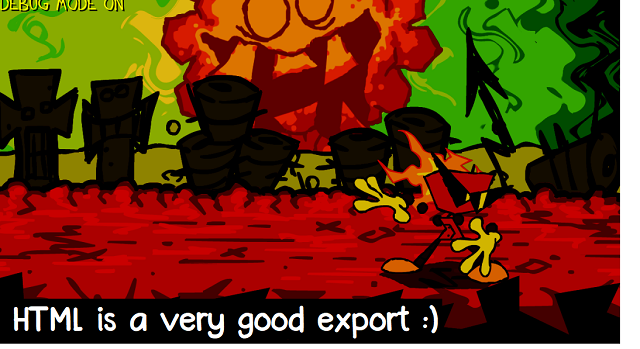
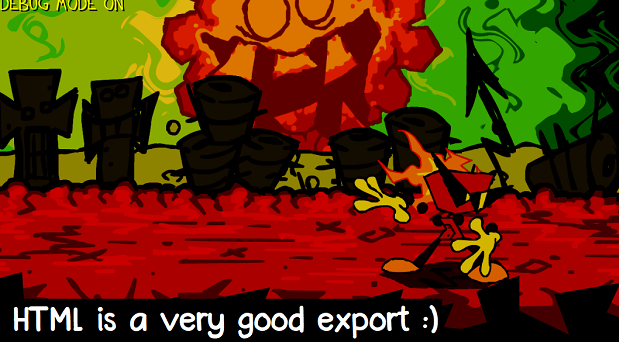
s

diff --git a/js/swacktalk/swacktalk3.js b/js/swacktalk/swacktalk3.js
@@ -75,7 +75,7 @@ var swacktalk_current = [
 					"<p>I'm gonna start with the FIRST EVER song I made for this game, which is this.</p>",
 				]
 			],
-			["audio", "/swacktalk/audio/swacktalk3/orua.mp3","The first song...!"],
+			["audio", "/swacktalk/audio/swacktalk3/orua.mp3","orua.mp3 | The first song...!"],
 			[
 				"text",
 				[
@@ -89,7 +89,7 @@ var swacktalk_current = [
 					"<p>Anyway, I have here the first DYNAMITEHEAD stage music. This was even before Toxic Trenches was even conceived, I believe.</p>",
 				]
 			],
-			["audio", "/swacktalk/audio/swacktalk3/DynamiteCity_forgotten.mp3","SO RETRO"],
+			["audio", "/swacktalk/audio/swacktalk3/DynamiteCity_forgotten.mp3","DynamiteCity_forgotten.mp3 | SO RETRO"],
 			[
 				"text",
 				[
@@ -103,7 +103,7 @@ var swacktalk_current = [
 					"<p>Here's an early version of the version that DID get used.</p>",
 				]
 			],
-			["audio", "/swacktalk/audio/swacktalk3/dh_toxictrenches_TheBest.mp3","Wow... It's like you're underwater."],
+			["audio", "/swacktalk/audio/swacktalk3/dh_toxictrenches_TheBest.mp3","dh_toxictrenches_TheBest.mp3 | Wow... It's like you're underwater."],
 			[
 				"text",
 				[
@@ -111,7 +111,7 @@ var swacktalk_current = [
 					"<p>Also, for some reason, I wanted the pause music for each stage to be a jazzy version of itself???</p>",
 				]
 			],
-			["audio", "/swacktalk/audio/swacktalk3/jazzytrencheswip2.mp3","Incredible..."],
+			["audio", "/swacktalk/audio/swacktalk3/jazzytrencheswip2.mp3","jazzytrencheswip2.mp3 | Incredible..."],
 			[
 				"text",
 				[
@@ -119,7 +119,7 @@ var swacktalk_current = [
 					"<p>I also have the first attempt at a menu theme... But, do be warned, the guitar in this is kind of loud.</p>",
 				]
 			],
-			["audio", "/swacktalk/audio/swacktalk3/earlydinamit.mp3",""],
+			["audio", "/swacktalk/audio/swacktalk3/earlydinamit.mp3","earlydinamit.mp3"],
 			[
 				"text",
 				[
@@ -130,12 +130,12 @@ var swacktalk_current = [
 					"<p>To the point where it was the only thing left to do... this was not the last time that happened...</p>",
 				]
 			],
-			["audio", "/swacktalk/audio/swacktalk3/frank.mp3","Sounds like a zKevin song..."],
-			["audio", "/swacktalk/audio/swacktalk3/frankenbarfwip.mp3","Second attempt"],
-			["audio", "/swacktalk/audio/swacktalk3/barf.mp3",""],
-			["audio", "/swacktalk/audio/swacktalk3/frank2.mp3",""],
-			["audio", "/swacktalk/audio/swacktalk3/AnotherFrankWip.mp3",""],
-			["audio", "/swacktalk/audio/swacktalk3/just straight up. frankin' it..mp3",""],
+			["audio", "/swacktalk/audio/swacktalk3/frank.mp3","frank.mp3 | Sounds like a zKevin song..."],
+			["audio", "/swacktalk/audio/swacktalk3/frankenbarfwip.mp3","frankenbarfwip.mp3 | Second attempt"],
+			["audio", "/swacktalk/audio/swacktalk3/barf.mp3","barf.mp3"],
+			["audio", "/swacktalk/audio/swacktalk3/frank2.mp3","frank2.mp3"],
+			["audio", "/swacktalk/audio/swacktalk3/AnotherFrankWip.mp3","AnotherFrankWip.mp3"],
+			["audio", "/swacktalk/audio/swacktalk3/just straight up. frankin' it..mp3","just straight up. frankin' it..mp3"],
 			[
 				"text",
 				[
@@ -143,7 +143,7 @@ var swacktalk_current = [
 					"<p>For some reason, I decided to also make a Groovy Graveyard theme in the middle of the Toxic Demo development. In August of 2024. It doesn't sound like this at all anymore...</p>",
 				]
 			],
-			["audio", "/swacktalk/audio/swacktalk3/groovygraveyardwip5.mp3","So funky! This actually doesn't sound bad!"],
+			["audio", "/swacktalk/audio/swacktalk3/groovygraveyardwip5.mp3","groovygraveyardwip5.mp3 | So funky! This actually doesn't sound bad!"],
 			[
 				"text",
 				[
@@ -158,7 +158,7 @@ var swacktalk_current = [
 					"<p>I just have one more thing to show.</p>",
 				]
 			],
-			["audio", "/swacktalk/audio/swacktalk3/ilikehotdogs.wav",""],
+			["audio", "/swacktalk/audio/swacktalk3/ilikehotdogs.wav","ilikehotdogs.wav"],
 			
 			[
 				"text",